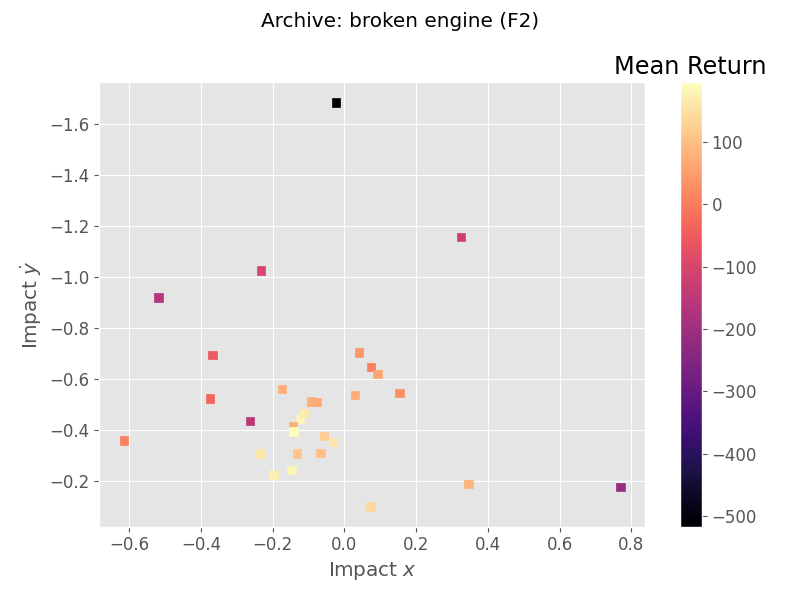
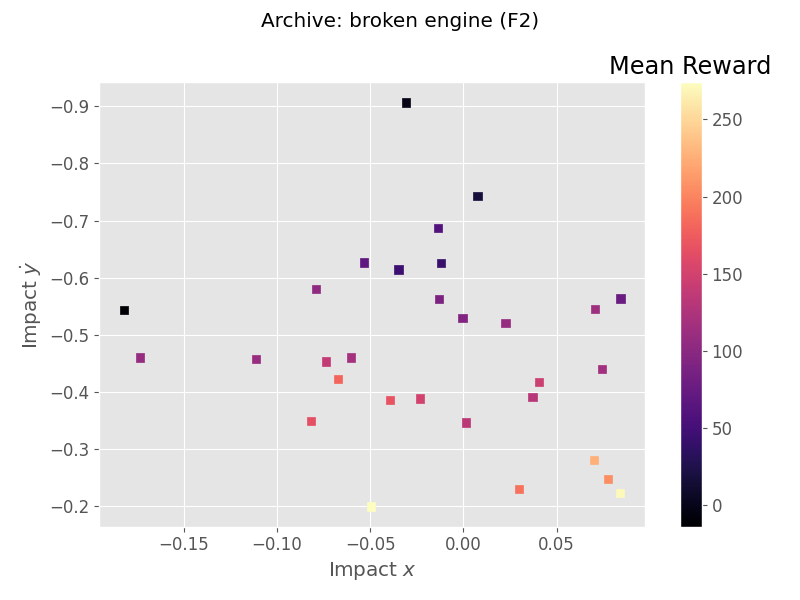
Added comparative maps

diff --git a/pderl/play_pderl.py b/pderl/play_pderl.py
@@ -24,9 +24,17 @@ parser.add_argument('-load_champion', help='Loads the best performingactor',
                     action='store_true', default=False)
 args = parser.parse_args()
 
-plt.style.use('ggplot')
+style = 'ggplot'
+plt.style.use(style.lower()) 
 plt.rcParams.update({'font.size': 12})
+# plt.rcParams['figure.dpi'] = 200
 
+
+# Global paths:
+env = utils.NormalizedActions(gym.make('LunarLanderContinuous-v2'))
+model_path = 'pderl/logs_stablebaseline_params/evo_nets.pkl'
+elite_path = 'pderl/logs_stablebaseline_params/elite_net.pkl'
+ddpg_path = 'pderl/logs_ddpg/ddpg_net.pkl'
 
 def evaluate(agent, env, trials: int = 10, render: bool = False, kwargs : dict = None):
     """ Evaualte an individual for a couple of trails/games.
@@ -101,7 +109,7 @@ def gen_heatmap(bcs_map: np.ndarray, rewards: np.ndarray, filename: str, save_fi
     ax.set_xlabel(r"Impact $x$")
 
     cbar = fig.colorbar(img, orientation='vertical')
-    cbar.ax.set_title('Mean Return')
+    cbar.ax.set_title('Mean Reward')
     plt.tight_layout()
 
     if save_figure:
@@ -123,11 +131,11 @@ def _extract_case(case : str, plotfolder : str = 'Results_pderl/Plots') -> tuple
     
     if 'nominal' in case.lower():
         print('Current case: nominal')
-        extra_args = {'broken_engine' : False, 'state_noise' : False, 'noise_intensity': 0.05}
+        extra_args = {'broken_engine' : False, 'state_noise' : False}
         plotname = 'nominal'
         filename = plotfolder + '/map.png'
 
-    elif 'noisy' in case.lower():
+    elif 'noisy' or 'noise' in case.lower():
         print('Current case: faulty system - noisy state')
         extra_args = {'broken_engine' : False, 'state_noise' : True, 'noise_intensity': 0.05}
         plotname = 'noisy state (F1)'
@@ -135,7 +143,7 @@ def _extract_case(case : str, plotfolder : str = 'Results_pderl/Plots') -> tuple
 
     elif 'broken' in case.lower():
         print('Current case: faulty system - broken engine')
-        extra_args = {'broken_engine' : True, 'state_noise' : False, 'noise_intensity': 0.05}
+        extra_args = {'broken_engine' : True, 'state_noise' : False}
         plotname = 'broken engine (F2)'
         filename = plotfolder + '/map_brokenengine.png'
 
@@ -145,18 +153,71 @@ def _extract_case(case : str, plotfolder : str = 'Results_pderl/Plots') -> tuple
     return extra_args, plotname, filename
 
 
+def gen_comparative_map(parameters, num_trials : int, case : str, save_figure : bool = False):
+
+    # generate a comparative map based o nthe case
+    extra_args, plotname,filename = _extract_case('nominal')  
+
+    agents_pop = load_genetic_agent(parameters, model_path, elite_path)
+    rewards, bcs_map, rewards_std = [], [], []
+    for agent in tqdm(agents_pop):  # evaluate each member for # trials
+        r_mean, r_std, bcs = evaluate(agent.actor, env,
+                render=args.render, trials=num_trials,\
+                     kwargs = extra_args)
+        rewards.append(r_mean)
+        bcs_map.append(bcs)
+        rewards_std.append(r_std)
+
+    bcs_map_old = np.asarray(bcs_map)
+
+    extra_args, plotname, filename = _extract_case(case)  
+    agents_pop = load_genetic_agent(parameters, model_path, elite_path)
+    rewards, bcs_map, rewards_std = [], [], []
+    for agent in tqdm(agents_pop):  # evaluate each member for # trials
+        r_mean, r_std, bcs = evaluate(agent.actor, env,
+                render=args.render, trials=num_trials,\
+                     kwargs = extra_args)
+        rewards.append(r_mean)
+        bcs_map.append(bcs)
+        rewards_std.append(r_std)
+
+    rewards = np.asarray(rewards)
+    bcs_map = np.asarray(bcs_map)
+    rewards_std = np.asarray(rewards_std)
+    new_elite = np.argmax(rewards)
+
+    print(f'New elite: {rewards[new_elite]:.2f}, with SD = {rewards_std[new_elite]:.2f}\n')
+
+    fig, ax = plt.subplots(figsize=(8, 6))
+    img = ax.scatter(bcs_map[:, 0], bcs_map[:, 1],
+                        c=rewards, marker='s', cmap='magma', s= 20)
+    u = bcs_map[:, 0] - bcs_map_old[:, 0]
+    v = bcs_map[:, 1] - bcs_map_old[:, 1]
+    cbar = fig.colorbar(img, orientation='vertical')
+    cbar.ax.set_title('Mean Reward')
+
+
+    img= ax.quiver(bcs_map[:, 0], bcs_map[:, 1],u,v, alpha = 0.5, pivot = 'tip', width = 0.003)
+    
+    ax.set_title('Archive: ' + str(plotname))
+
+    ax.invert_yaxis()  # Makes more sense if larger velocities are on top.
+    ax.set_ylabel(r"Impact $\dot{y}$")
+    ax.set_xlabel(r"Impact $x$")
+
+    plt.tight_layout()
+
+    if save_figure:
+        fig.savefig(filename)
+        print('Figured saved as ' + filename)
+
+    return bcs_map, rewards
+
+
+
+
+
 if __name__ == "__main__":
-
-    # Evaluation params:
-    num_trials = 100
-    case = 'noisy'
-    save_figure = True
-
-    # Global paths:
-    env = utils.NormalizedActions(gym.make('LunarLanderContinuous-v2'))
-    model_path = 'pderl/logs_stablebaseline_params/evo_nets.pkl'
-    elite_path = 'pderl/logs_stablebaseline_params/elite_net.pkl'
-    ddpg_path = 'pderl/logs_ddpg/ddpg_net.pkl'
 
     # Set parameters:
     parameters = Parameters(args, init=False)
@@ -173,6 +234,10 @@ if __name__ == "__main__":
     np.random.seed(args.seed)
     random.seed(args.seed)
 
+    # Evaluation params:
+    num_trials = 10
+    case = 'noisy_compare'
+    save_figure = False
 
     extra_args, plotname,filename = _extract_case(case)    
 
@@ -191,22 +256,30 @@ if __name__ == "__main__":
     # -> evaluate entire popualtion on the faulty system
     # --------------------------------------------------------------------------
 
-    agents_pop = load_genetic_agent(parameters, model_path, elite_path)
-    rewards, bcs_map, rewards_std = [], [], []
-    for agent in tqdm(agents_pop):  # evaluate each member for # trials
-        r_mean, r_std, bcs = evaluate(agent.actor, env,
-                render=args.render, trials=num_trials,\
-                     kwargs = extra_args)
-        rewards.append(r_mean)
-        bcs_map.append(bcs)
-        rewards_std.append(r_std)
+    if 'comp' in case.lower():
+        # comparative plot  to the nominal case (with arrows) 
+        bcs_map, rewards = gen_comparative_map(parameters, num_trials, case, save_figure=save_figure)
+    else:
+        # simpel plot
+        extra_args, plotname,filename = _extract_case(case)  
+        agents_pop = load_genetic_agent(parameters, model_path, elite_path)
+        rewards, bcs_map, rewards_std = [], [], []
+        for agent in tqdm(agents_pop):  # evaluate each member for # trials
+            r_mean, r_std, bcs = evaluate(agent.actor, env,
+                    render=args.render, trials=num_trials,\
+                        kwargs = extra_args)
+            rewards.append(r_mean)
+            bcs_map.append(bcs)
+            rewards_std.append(r_std)
 
-    rewards = np.asarray(rewards)
-    bcs_map = np.asarray(bcs_map)
-    rewards_std = np.asarray(rewards_std)
-    new_elite = np.argmax(rewards)
+        rewards = np.asarray(rewards)
+        bcs_map = np.asarray(bcs_map)
+        rewards_std = np.asarray(rewards_std)
+        new_elite = np.argmax(rewards)
 
-    print(f'New elite: {rewards[new_elite]:.2f}, with SD = {rewards_std[new_elite]:.2f}\n')
+        # Plotting the nominal case
+        print(f'New elite: {rewards[new_elite]:.2f}, with SD = {rewards_std[new_elite]:.2f}\n')
+        gen_heatmap(bcs_map, rewards, filename=filename, name = plotname, save_figure=save_figure)
 
 
     # ------------------------------------------------------------------------
@@ -223,7 +296,7 @@ if __name__ == "__main__":
     # -----------------------------------------------------------------------
     #                                   Plotting
     # ------------------------------------------------------------------------
-    # gen_heatmap(bcs_map, rewards, filename=filename, name = plotname, save_figure=save_figure)
+    
     # gen_heatmap(bcs_map, rewards,
     #             filename='Results_pderl/Plots/population_map_brokenengine.png',\
     #             save_figure = False)

diff --git a/Results_pderl/test_comparativeplot.py b/Results_pderl/test_comparativeplot.py
@@ -1,0 +1,40 @@
+import numpy as np
+import os
+import random
+
+
+import matplotlib.pyplot as plt
+
+
+# my envs
+from envs.lunarlander import simulate
+
+style = 'seaborn-darkgrid'
+plt.style.use(style.lower()) 
+plt.rcParams.update({'font.size': 12})
+plt.rcParams['figure.dpi'] = 200
+
+name = 'comparative plot'
+
+bcs_map_old = np.random.randn(30,2)
+bcs_map = np.random.randn(30,2)
+rewards = 500* np.random.randn(30)
+
+fig, ax = plt.subplots(figsize=(8, 6))
+img = ax.scatter(bcs_map[:, 0], bcs_map[:, 1],
+                    c=rewards, marker='s', cmap='magma', s= 20)
+u = bcs_map[:, 0] - bcs_map_old[:, 0]
+v = bcs_map[:, 1] - bcs_map_old[:, 1]
+img= ax.quiver(bcs_map[:, 0], bcs_map[:, 1],u,v, alpha = 0.5, pivot = 'tip', width = 0.003)
+if name is not None:
+    fig.suptitle('Archive: ' + str(name))
+
+ax.invert_yaxis()  # Makes more sense if larger velocities are on top.
+ax.set_ylabel(r"Impact $\dot{y}$")
+ax.set_xlabel(r"Impact $x$")
+
+cbar = fig.colorbar(img, orientation='vertical')
+cbar.ax.set_title('Mean Reward')
+plt.tight_layout()
+
+plt.show()
